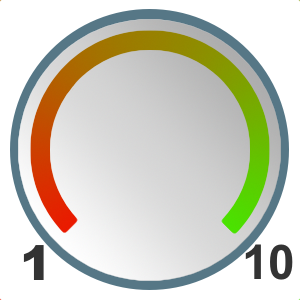
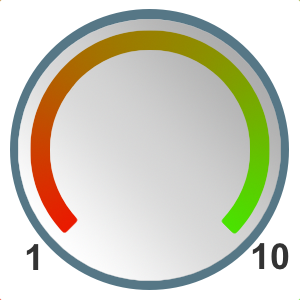
Got 200x200 fuel gauges to work

Changed region(s): [[0.81, 0.81, 0.99, 0.93], [0.06, 0.81, 0.15, 0.93]]

diff --git a/lizard_kpi/media/lizard_kpi/horizontal.js b/lizard_kpi/media/lizard_kpi/horizontal.js
@@ -53,17 +53,18 @@ function initialize_fuel_gauges() {
 
   $(".fuel-gauge").each(function() {
     // Defaults.
-    var height = 300;
-    var width = 300;
+    var height = 200;
+    var width = 200;
     // Init raphael.
     var canvas = Raphael(this, width, height);
 
     // Gauge is from southwest to southeast.
     var gauge = canvas.gauge(-45, 225);
-    // Attach background to gauge with x=150 and y=150 center point
-    gauge.bg(canvas.image(gauge_image, 0, 0, 300, 300), [150, 150])
-    // Attach pointer to gauge with x=130 and y=10 center point
-    gauge.pointer(canvas.image(arrow_image, 0, 0, 150, 20), [130, 10]);
+    // Attach background to gauge with x=100 and y=100 center point
+    gauge.bg(canvas.image(gauge_image, 0, 0, 200, 200), [100, 100])
+    // Attach pointer to gauge with x=87 and y=6 center point
+    // Old 300x300: x=130 and y=10 center point
+    gauge.pointer(canvas.image(arrow_image, 0, 0, 100, 13), [87, 6]);
 
     // Move pointer (in percentage) without animation.
     gauge.move(50, false);

diff --git a/lizard_kpi/templates/lizard_kpi/gauges.html b/lizard_kpi/templates/lizard_kpi/gauges.html
@@ -27,8 +27,8 @@
 {% block content %}
 <div id="textual"
      class="kpi_gauges"
-     data-gauge-image="{{ STATIC_URL }}lizard_kpi/fuel_gauge.png"
-     data-arrow-image="{{ STATIC_URL }}lizard_kpi/fuel_gauge_arrow.png">
+     data-gauge-image="{{ STATIC_URL }}lizard_kpi/fuel_gauge_200.png"
+     data-arrow-image="{{ STATIC_URL }}lizard_kpi/fuel_gauge_arrow_200.png">
   <h1>{{ page.name }}</h1>
   {% for gauge in gauges %}
   <div class="floating-gauge-box">

diff --git a/lizard_kpi/media/lizard_kpi/lizard_kpi.css b/lizard_kpi/media/lizard_kpi/lizard_kpi.css
@@ -7,6 +7,7 @@
   }
 
 .horizontal-gauge
-{ width: 300px;
-  height: 300px;
+{ width: 200px;
+  height: 200px;
+  /* 300px for the bigger version. */
   }
